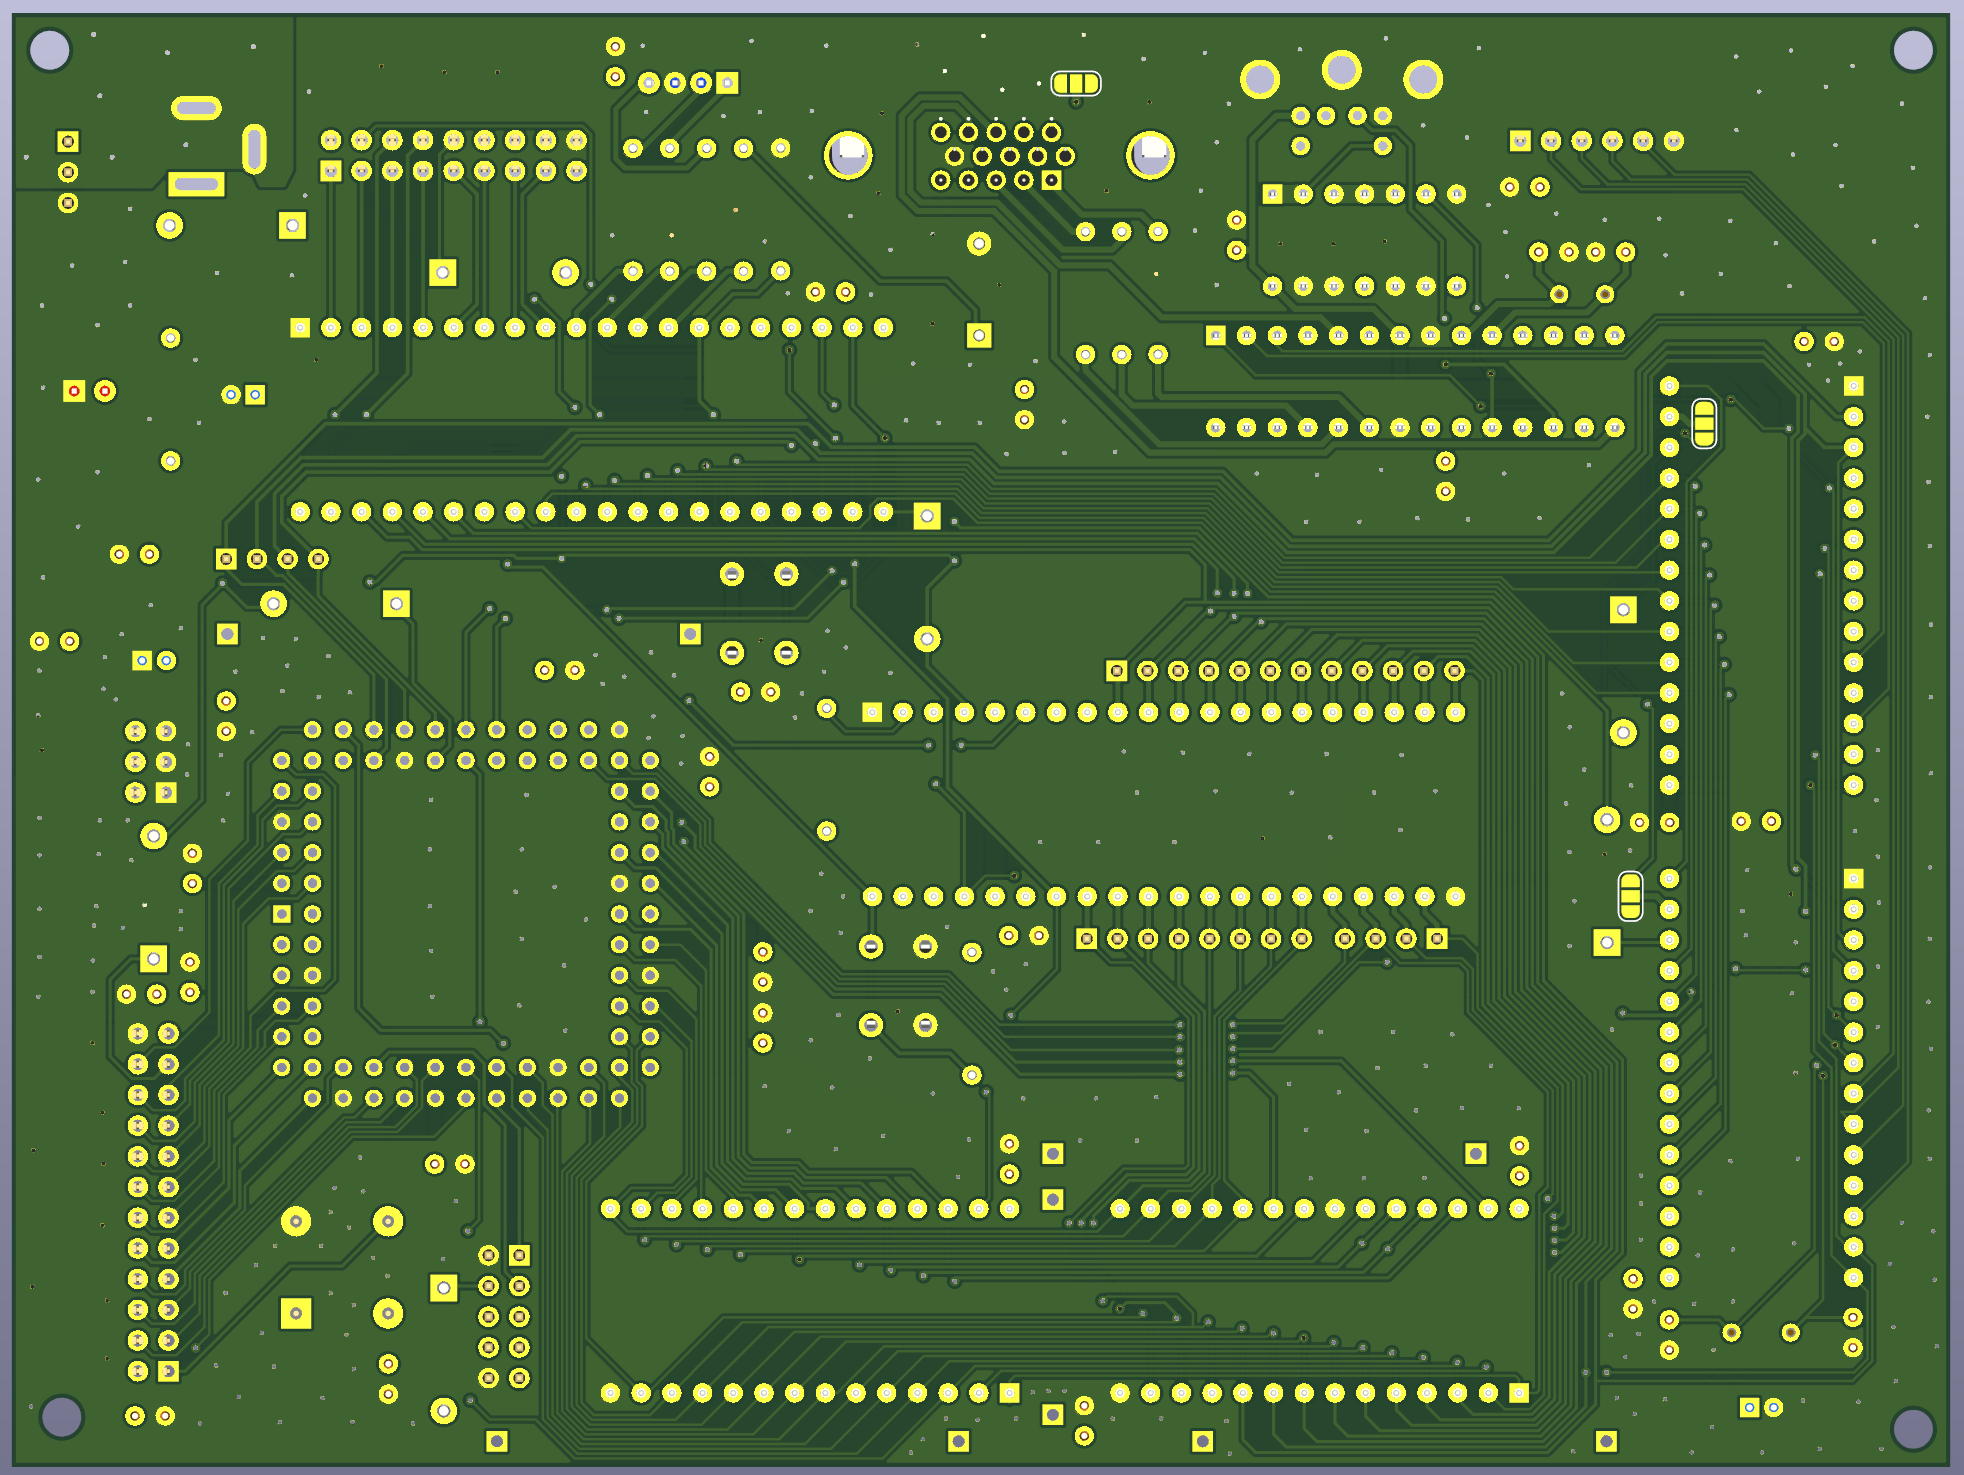
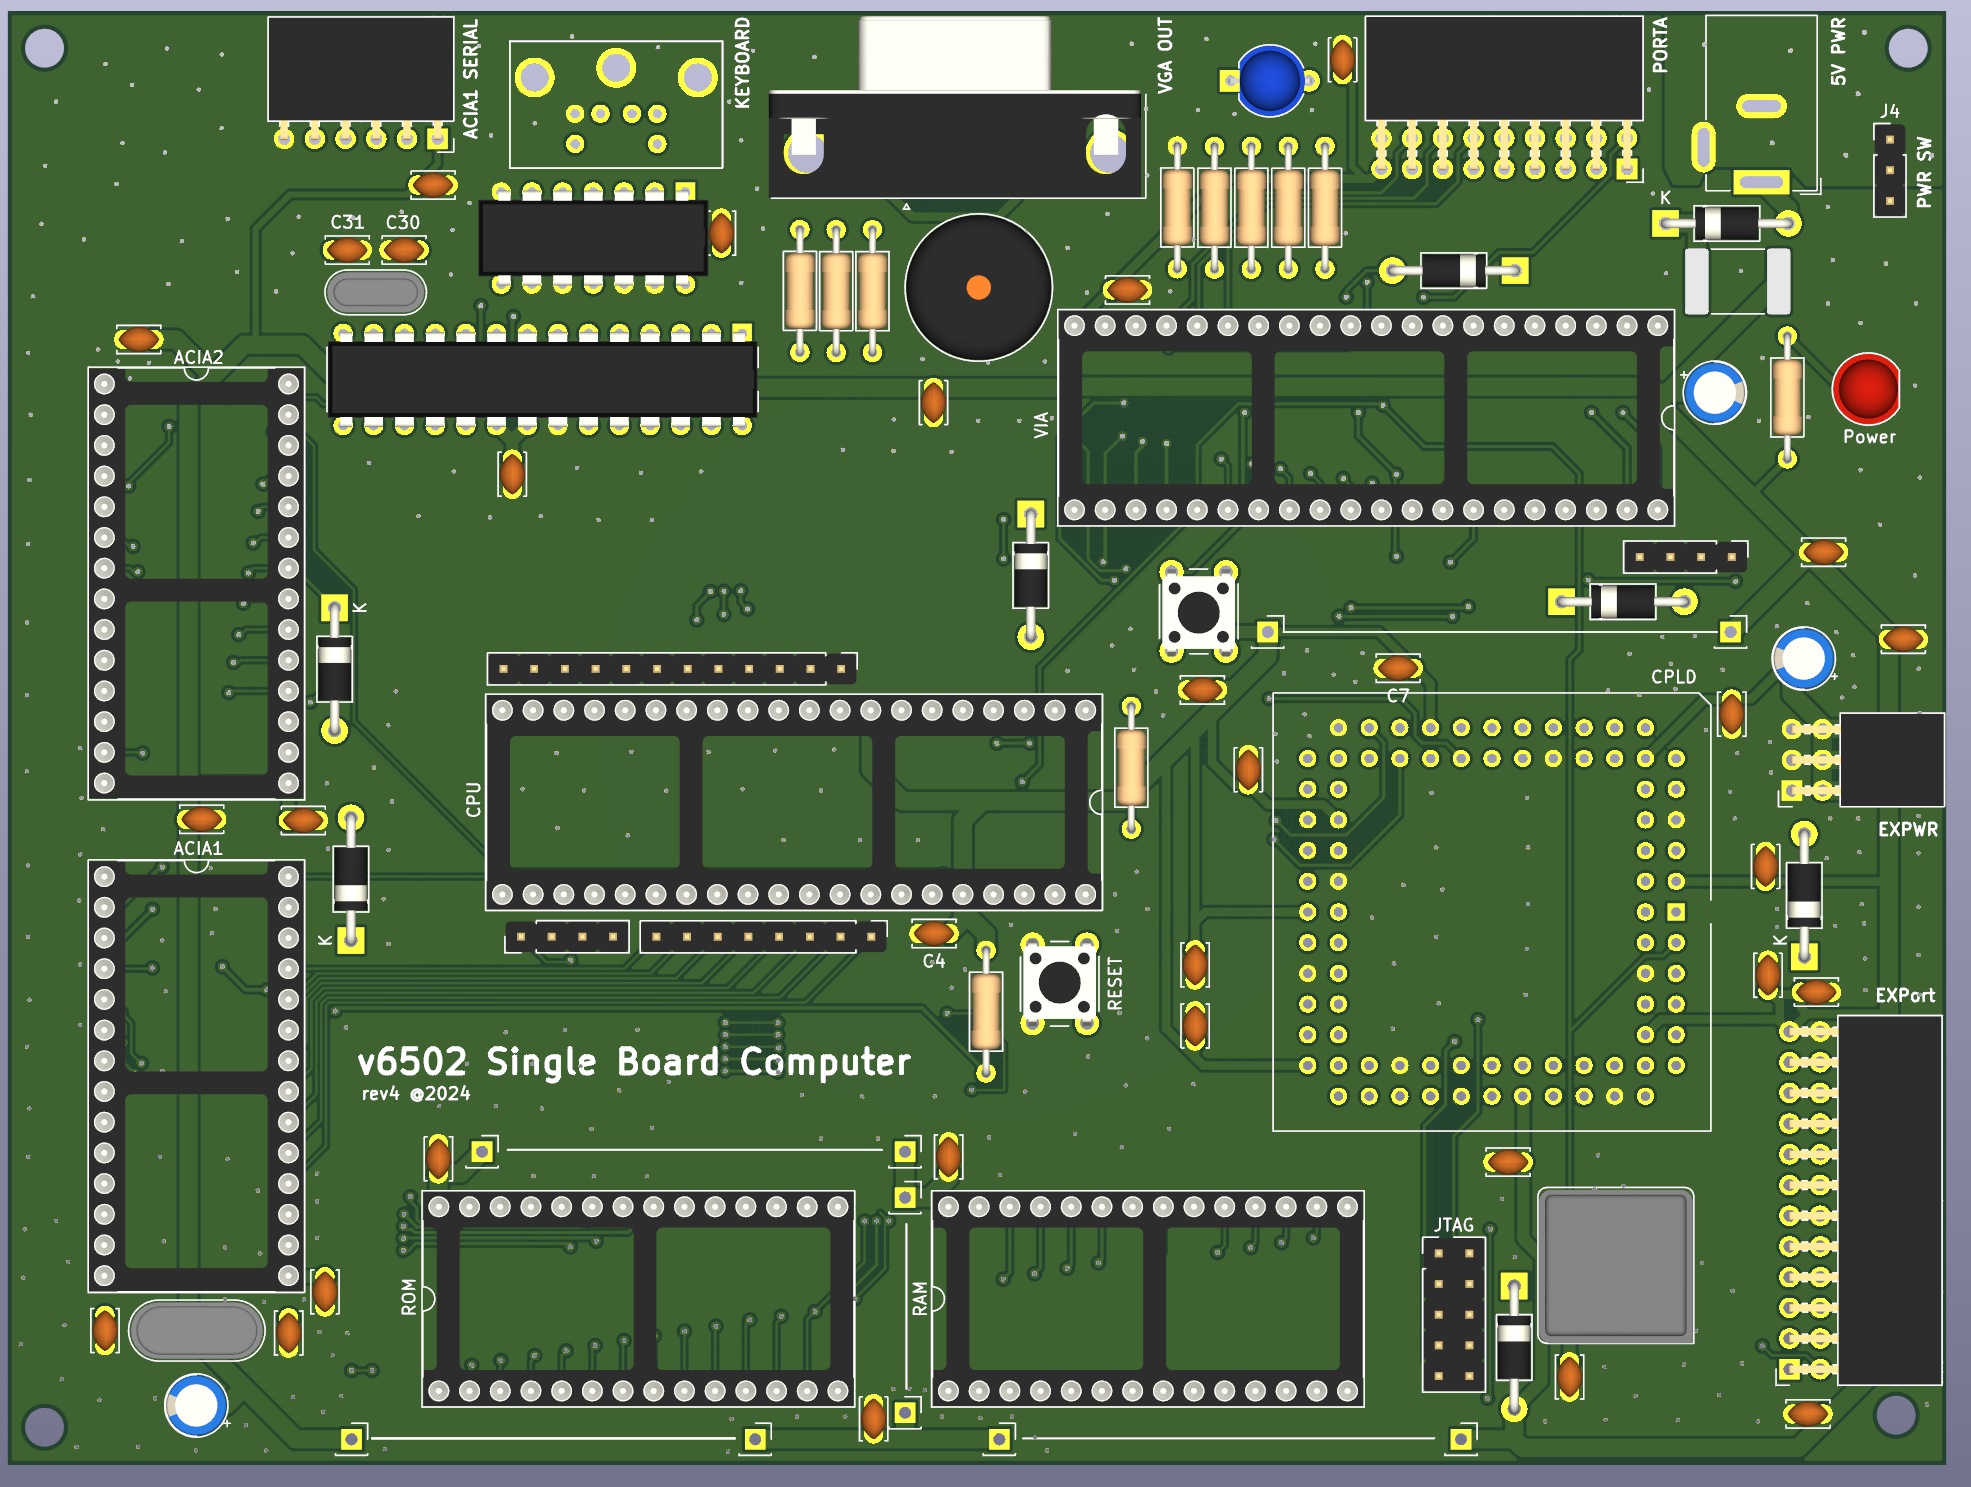
Rename and readme update.

diff --git a/README.md b/README.md
@@ -1,32 +1,68 @@
-## v6502 Homebrew WDC 65C02 Based Single Board Computer
+# 💻 vz6502: A Homebrew Single Board Computer Based on WDC 65C02
 
-**PCB 3D View**
+A custom-built single board computer (SBC) powered by the WDC 65C02 processor, featuring VGA and PS/2 interfaces, an onboard terminal, and a CPLD-based system controller.
 
-<p align="center"> <img src="./ext/pcb.png> </p>
+---
 
-**PCB Route**
+## ⚙ Specifications
 
-<p align="center"> <img src="./ext/route1.png> </p>
+- **CPU:** WDC 65C02 @ 1.8432 MHz (chosen for UART-compatible clock rate)
+- **System Controller:** Altera EPM7128SLC84 CPLD
+- **ROM:** Atmel 28C256 EEPROM (16 KB used)
+- **RAM:** Hitachi 62256 SRAM (28 KB used)
+- **Serial Interfaces:**  
+  - 2× 65C51 ACIA (UART and terminal communication)
+- **I/O Interface:**  
+  - 1× 65C22 VIA
+- **Video Output:** VGA interface  
+- **Input:** PS/2 keyboard  
+- **Terminal:** Atmega328P-based serial terminal
 
-**Schematic**
 
-<p align="center"> <img src="./ext/schm1.png> </p>
 
-## Specs
-- WDC 65C02 CPU @1.8432MHz
-- Altera EPM 7128 CPLD System Controller
-- Atmel 28C256 Read-Only Memory (16KB ONLY!)
-- Hitachi 62256 SRAM (18KB ONLY!)
-- 2x 65C22 VIA (8-bit two way each)
-- 2x 65C51 ACIA (2x UART)
-- External Bitmap-Text Based VGA Framebuffer
+## 🧩 PCB Design
 
-*For more info about VGA Framebuffer, please refer my VGA_Framebuffer Repo: "LINK"
+<div align="center">
+  <img src="ext/pcb_front.png" width="600" alt="Front side of PCB">
+  <p><em>Front side of the PCB</em></p>
+</div>
 
-## Memory Hiearchy
+<div align="center">
+  <img src="ext/pcb_back.png" width="600" alt="Back side of PCB">
+  <p><em>Back side of the PCB</em></p>
+</div>
 
-## File Locations
-PCB Design (KICAD) => ```/pcb```<br>
-System Controller  => ```/cnt```<br>
-WOZMON OS (ASM)    => ```/os```<br>     
-VGA Framebuffer    => ```/vga```<br>
+## 🔌 Schematic
+
+<div align="center">
+  <img src="ext/schm1.png" width="800" alt="Schematic Diagram">
+  <p><em>System schematic showing CPU, RAM, ROM, I/O, and video interfaces</em></p>
+</div>
+
+
+## 🧠 Memory Map Overview
+
+### 📋 Detailed Address Mapping
+
+| Unit   | First Address (bin)          | Last Address (bin)           | Address Range (Hex) | Description            | Size  |
+|--------|------------------------------|------------------------------|---------------------|------------------------|-------|
+| RAM    | 0000 0000 0000 0000          | 0110 1111 1111 1111          | 0000–6FFF           | System memory          | 28 KB |
+| VIA0   | 0111 0000 0000 0000          | 0111 0000 0000 1100          | 7000–700C           | VIA 0 registers        | 12 B  |
+| VIA1   | 0111 0001 0000 0000          | 0111 0001 0000 1100          | 7100–710C           | VIA 1 registers        | 12 B  |
+| ACIA0  | 0111 0010 0000 0000          | 0111 0010 0000 0011          | 7200–7203           | ACIA 0 registers       | 4 B   |
+| ACIA1  | 0111 0011 0000 0000          | 0111 0011 0000 0011          | 7300–7303           | ACIA 1 registers       | 4 B   |
+| RESRV  | 0111 0100 0000 0000          | 0111 1111 1111 1111          | 7304–7FFF           | Reserved               | N/A   |
+| ROM    | 1000 0000 0000 0000          | 1111 1111 1111 1111          | 8000–FFFF           | System ROM             | 32 KB |
+
+---
+
+## 📁 File Structure
+
+| Folder   | Description                        |
+|----------|------------------------------------|
+| `/pcb`   | KiCAD PCB design files             |
+| `/gerber`| Gerber files for PCB manufacturing |
+| `/ext`   | GitHub assets, images, and extras  |
+
+---
+⚠ CPLD and operating system source files will be uploaded in a future update.
